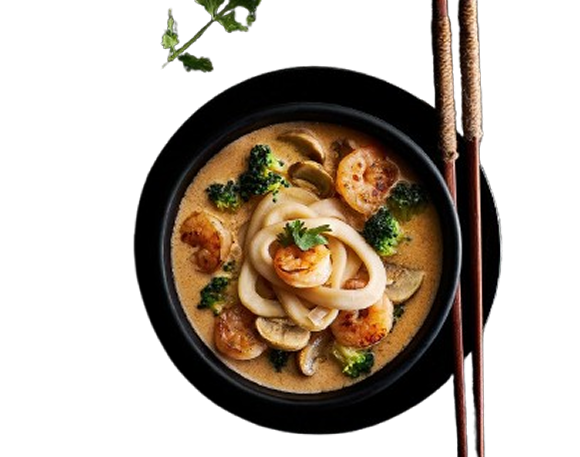
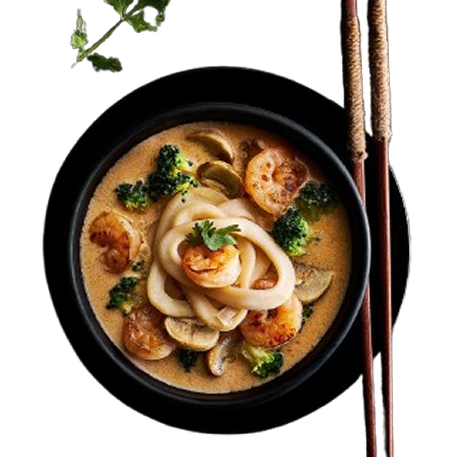
modification photos

diff --git a/kiyomi/src/app/components/accueil/accueil.html b/kiyomi/src/app/components/accueil/accueil.html
@@ -41,7 +41,7 @@
       <div class="card border border-white card-transparent h-100 w-100 shadow-sm p-3">
         
         <!-- image box -->
-        <div class="h-100 w-100 mb-2">
+        <div class="align-self-center h-75 w-75">
           <img src="../../../assets/images/{{box.image}}.png" class="card-img-top object-fit-cover" [alt]="box.image" />
         </div>
 
